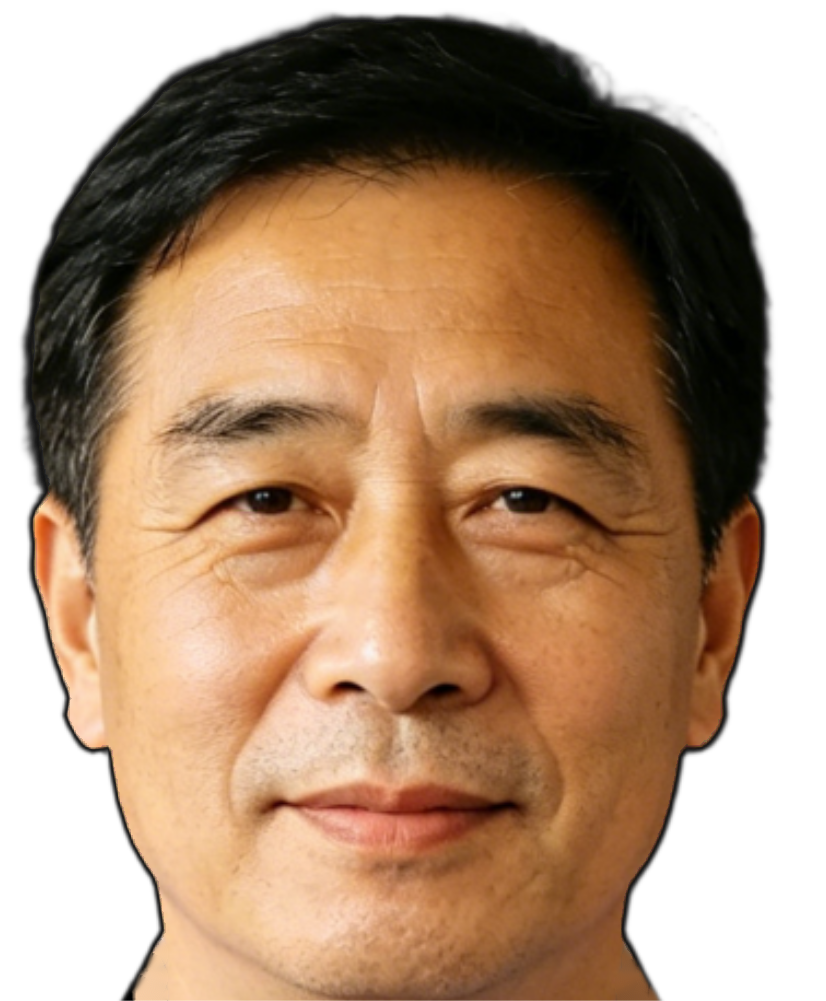
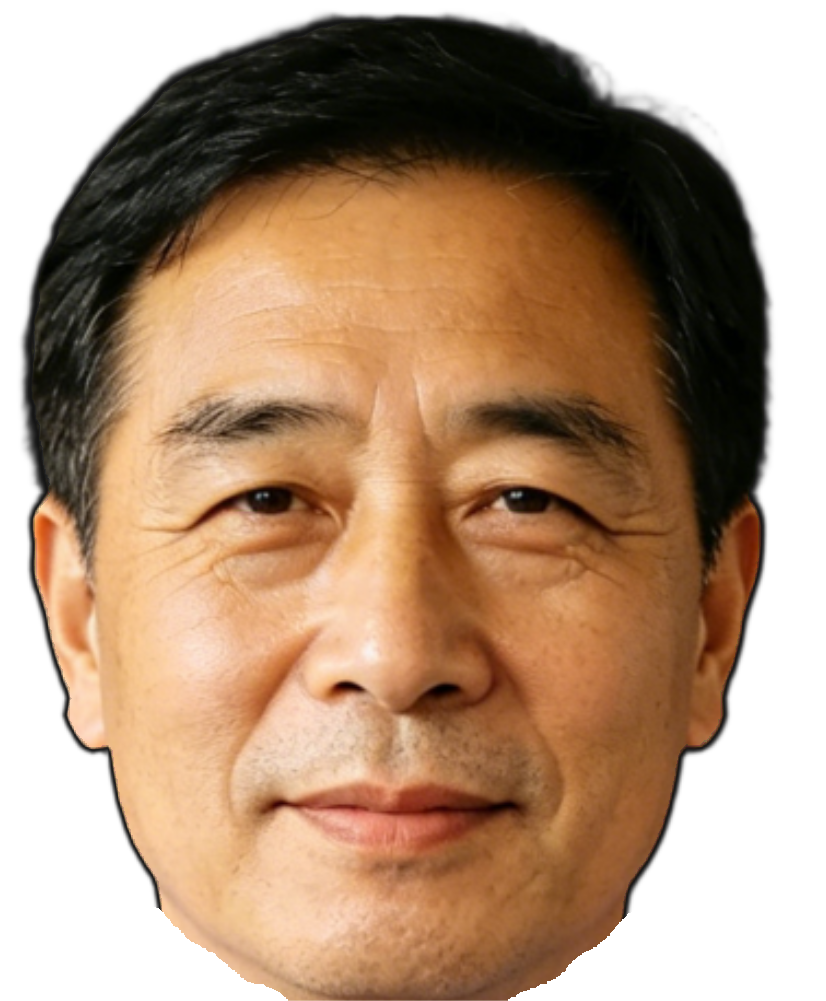
79

Changed region(s): [[0.1211, 0.8981, 0.3632, 1.0], [0.6053, 0.8981, 0.8172, 1.0]]

diff --git a/scripts/avatar_processor.py b/scripts/avatar_processor.py
@@ -53,6 +53,7 @@ TRACKING_STATE = TrackingState()
 BUILD_TAG = "2026-06-26-uvc-probe-v2"
 STATIC_STAGE_CACHE: Dict[Tuple[int, int], np.ndarray] = {}
 AVATAR_FACE_BOX_CACHE: Dict[int, Optional[Tuple[int, int, int, int]]] = {}
+FRAME_COUNTER = 0
 random.seed()
 
 
@@ -130,6 +131,7 @@ def build_parser() -> argparse.ArgumentParser:
     parser.add_argument("--width", type=int, default=1280, help="Frame width")
     parser.add_argument("--height", type=int, default=720, help="Frame height")
     parser.add_argument("--fps", type=int, default=30, help="Frame rate")
+    parser.add_argument("--detect-every", type=int, default=2, help="Run heavy face detection every N frames")
     parser.add_argument("--mirror", action="store_true", help="Mirror the camera image")
     parser.add_argument("--max-faces", type=int, default=1, help="Maximum faces to render with avatar")
     parser.add_argument("--avatar-scale", type=float, default=1.0, help="Scale multiplier for avatar size")
@@ -2181,16 +2183,23 @@ def process_frame(
     eye_animation: str,
     mouth_animation: str,
     max_faces: int,
+    detect_every: int,
 ) -> np.ndarray:
+    global FRAME_COUNTER
+    FRAME_COUNTER += 1
+
     if avatar is None:
         if fallback_style == "normal":
             return frame
         return cartoonize(frame)
 
     faces_multi: list[Tuple[int, int, int, int]] = []
-    if max_faces > 1:
+    detect_stride = max(1, int(detect_every))
+    must_detect = TRACKING_STATE.face is None or (FRAME_COUNTER % detect_stride == 0)
+
+    if max_faces > 1 and must_detect:
         faces_multi = detect_faces_multi(frame, face_cascade, profile_cascade, eye_cascade, max_faces=max_faces)
-    state = estimate_pose(frame, face_cascade, eye_cascade, mouth_cascade, profile_cascade)
+    state = estimate_pose(frame, face_cascade, eye_cascade, mouth_cascade, profile_cascade) if must_detect else None
     now = time.monotonic()
     avatar_face_box = detect_avatar_face_box(avatar, face_cascade, profile_cascade)
 
@@ -2302,6 +2311,7 @@ def main() -> int:
     print(f"eye_animation={args.eye_animation}")
     print(f"mouth_animation={args.mouth_animation}")
     print(f"max_faces={max(1, int(args.max_faces))}")
+    print(f"detect_every={max(1, int(args.detect_every))}")
     print(f"fallback_style={args.fallback_style}")
     print(f"background_mode={args.background_mode}")
     print(f"gpio_avatar_select={'on' if gpio_selector.enabled else 'off'}")
@@ -2336,6 +2346,7 @@ def main() -> int:
                 args.eye_animation,
                 args.mouth_animation,
                 max(1, int(args.max_faces)),
+                max(1, int(args.detect_every)),
             )
             if output_frame.shape[1] != output_spec.width or output_frame.shape[0] != output_spec.height:
                 output_frame = cv2.resize(output_frame, (output_spec.width, output_spec.height), interpolation=cv2.INTER_AREA)

diff --git a/README.md b/README.md
@@ -97,6 +97,7 @@ GPIO 选择头像（GPIO0/GPIO1 两位共四种）：
 - GPIO 选头像：默认关闭（`GPIO_AVATAR_SELECT=0`）
 - 眼睛动画：默认 `subtle`
 - 口型动画：默认 `subtle`
+- 重检测间隔：`DETECT_EVERY=2`（每2帧做一次重检测，降低CPU占用）
 - 分辨率：`960x540`
 - 帧率：`15`
 - 网络 JPEG 质量：`70`